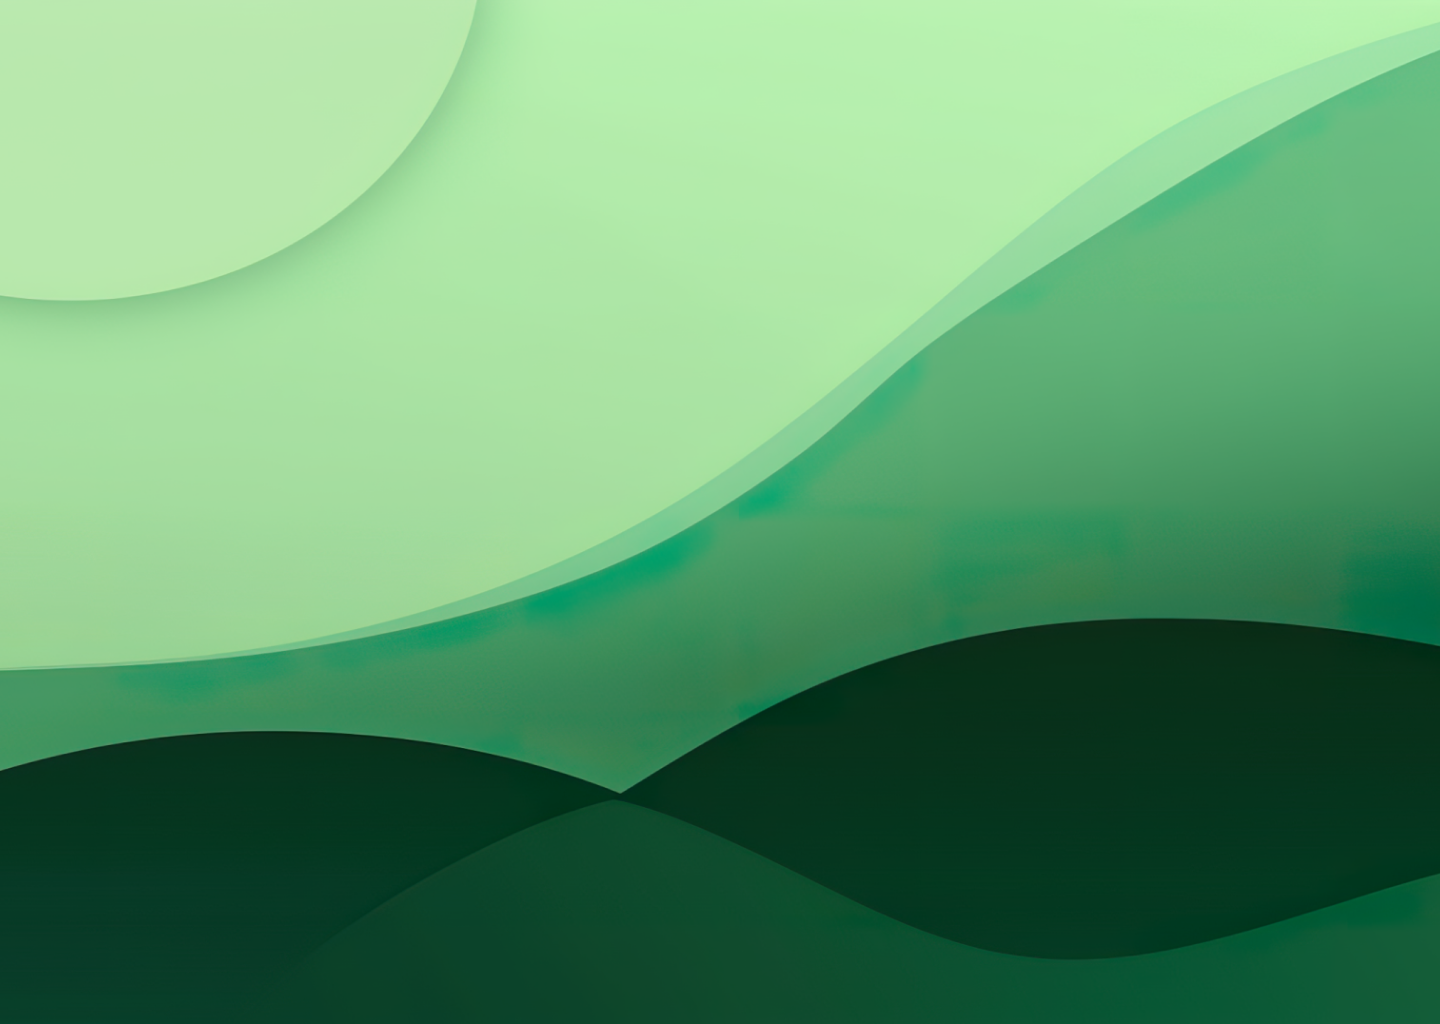
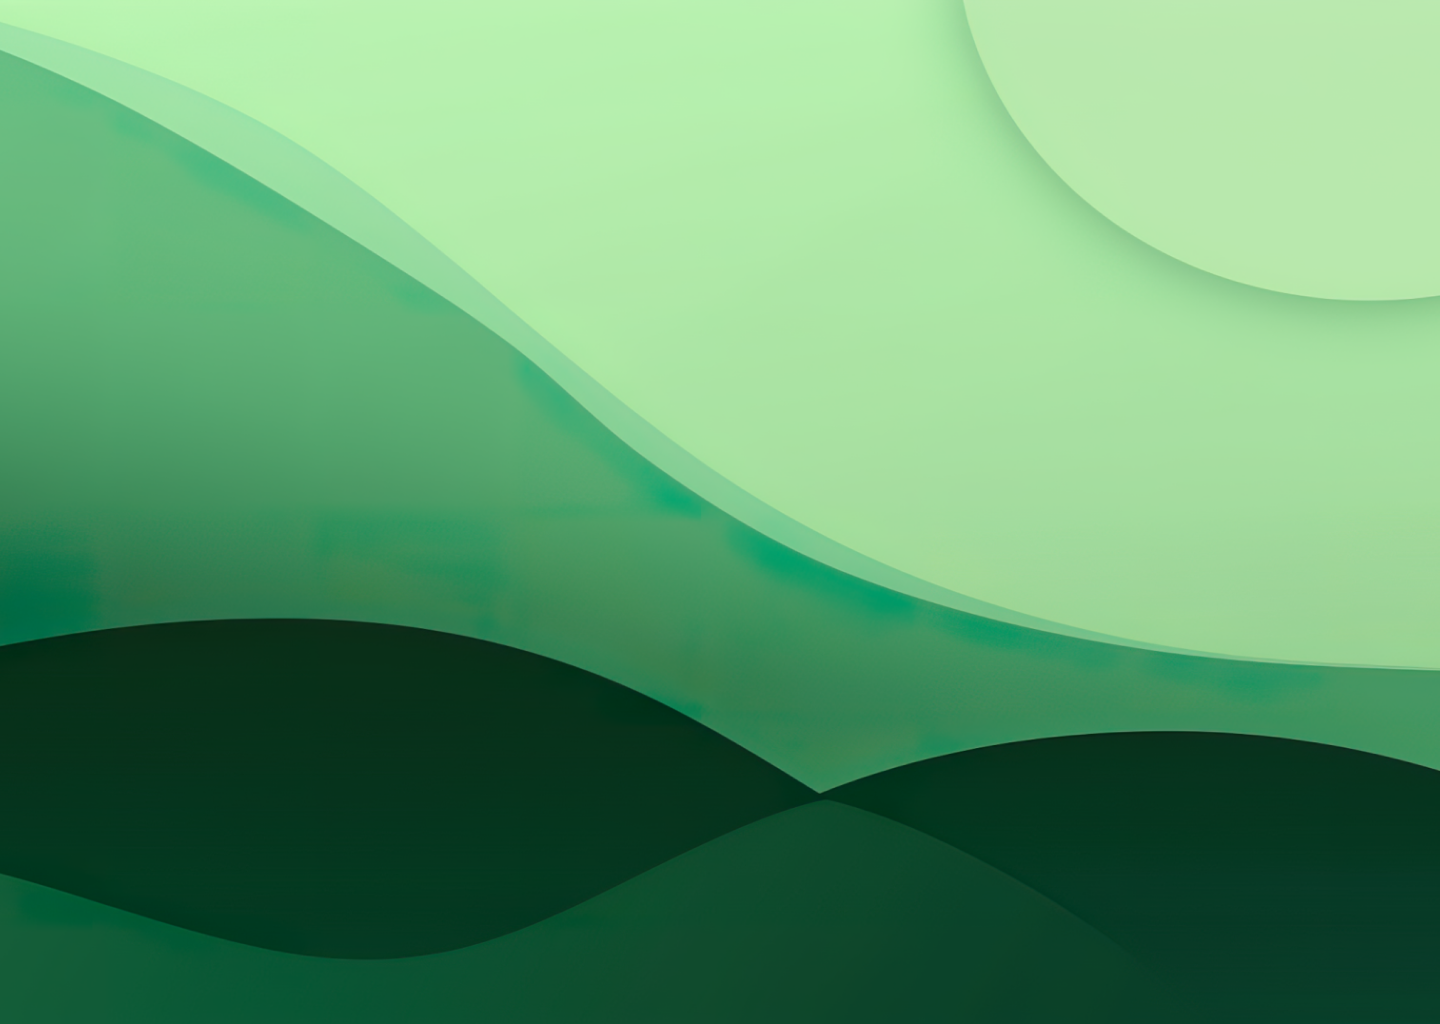
Add Register page and update background images
- Modified App.js to include routing for the Register page.
- Added new background image for registration (bg-image-register.png).
- Updated NavBar component with new navigation link.
- Modified Footer.jsx and Register.jsx for UI consistency.

diff --git a/src/pages/Register.jsx b/src/pages/Register.jsx
@@ -1,0 +1,93 @@
+import React from 'react';
+import { FaGoogle, FaApple, FaFacebookF } from 'react-icons/fa';
+import bgImage from '../assets/img/bg-image-register.png';
+
+const Register = () => {
+  return (
+    <div
+      className="register-page"
+      style={{
+        backgroundImage: `url(${bgImage})`,
+        backgroundSize: 'cover',
+        backgroundPosition: 'center',
+        height: '100vh',
+        display: 'flex',
+        alignItems: 'flex-start',
+        justifyContent: 'center',
+        padding: '4rem 10rem',
+      }}
+    >
+      <div className="text-container text-[#333333] mr-16 mt-0 text-left ml-0 p-16">
+        <h2 className="font-unbounded text-[32px] font-bold mb-8">
+          Reserva tu cancha fácilmente y sin complicaciones.
+        </h2>
+        <ul className="font-unbounded text-[24px] font-regular">
+          <li className="mb-2"> - Disponible en más de 50 ciudades.</li>
+          <li className="mb-2"> - Paga en línea de forma rápida y segura.</li>
+          <li className="mb-2"> - Horarios flexibles para ti.</li>
+        </ul>
+        <p className="font-unbounded text-[24px] font-regular mt-4">
+          ¡Unete ahora y prepárate para el juego!
+        </p>
+      </div>
+      <div className="register-container bg-white p-8 rounded shadow-lg max-w-md w-full mt-16">
+        <h2 className="text-2xl font-bold text-center mb-6">Registrarse</h2>
+        <p className="text-center mb-4">
+          ¿Ya tienes una cuenta? <a href="/login" className="text-green-500">Iniciar sesión</a>
+        </p>
+        <form>
+          <div className="mb-4">
+            <label className="block text-sm font-medium mb-1">Nombre</label>
+            <input
+              type="text"
+              placeholder="John"
+              className="w-full px-3 py-2 border rounded focus:outline-none focus:ring focus:border-green-500"
+            />
+          </div>
+          <div className="mb-4">
+            <label className="block text-sm font-medium mb-1">Correo electrónico</label>
+            <input
+              type="email"
+              placeholder="johndoe@example.com"
+              className="w-full px-3 py-2 border rounded focus:outline-none focus:ring focus:border-green-500"
+            />
+          </div>
+          <div className="mb-4">
+            <label className="block text-sm font-medium mb-1">Contraseña</label>
+            <input
+              type="password"
+              placeholder="********"
+              className="w-full px-3 py-2 border rounded focus:outline-none focus:ring focus:border-green-500"
+            />
+          </div>
+          <div className="flex items-center mb-4">
+            <input type="checkbox" id="terms" className="mr-2" />
+            <label htmlFor="terms" className="text-sm">
+              Acepto los Términos de Servicio y la Política de Privacidad
+            </label>
+          </div>
+          <button
+            type="submit"
+            className="w-full py-2 px-4 bg-black text-white font-bold rounded hover:bg-gray-800 transition"
+          >
+            Crear una cuenta
+          </button>
+        </form>
+        <div className="text-center my-4">O</div>
+        <div className="flex justify-center gap-4">
+          <button className="w-12 h-12 flex items-center justify-center rounded-full border transition hover:bg-gray-100">
+            <FaGoogle className="text-red-500" />
+          </button>
+          <button className="w-12 h-12 flex items-center justify-center rounded-full border transition hover:bg-gray-100">
+            <FaApple className="text-black" />
+          </button>
+          <button className="w-12 h-12 flex items-center justify-center rounded-full border transition hover:bg-gray-100">
+            <FaFacebookF className="text-blue-600" />
+          </button>
+        </div>
+      </div>
+    </div>
+  );
+};
+
+export default Register;

diff --git a/src/App.js b/src/App.js
@@ -4,6 +4,7 @@ import { BrowserRouter as Router, Route, Routes } from 'react-router-dom';
 import NavBar from './components/NavBar';
 import Home from './pages/Home';
 import Login from './pages/Login';
+import Register from './pages/Register';
 
 function App() {
   return (
@@ -13,6 +14,7 @@ function App() {
         <Routes>
           <Route path="/" element={<Home />} />
           <Route path="/login" element={<Login />} />
+          <Route path="/register" element={<Register />} />
         </Routes>
       </div>
     </Router>

diff --git a/src/components/NavBar.jsx b/src/components/NavBar.jsx
@@ -37,7 +37,7 @@ const NavBar = () => {
           </Button>
         </NavbarItem>
         <NavbarItem>
-          <Button as={Link} href="#" variant="flat" className="navbar-button-registro">
+          <Button as={Link} href="/register" variant="flat" className="navbar-button-registro">
             Registrate
           </Button>
         </NavbarItem>
